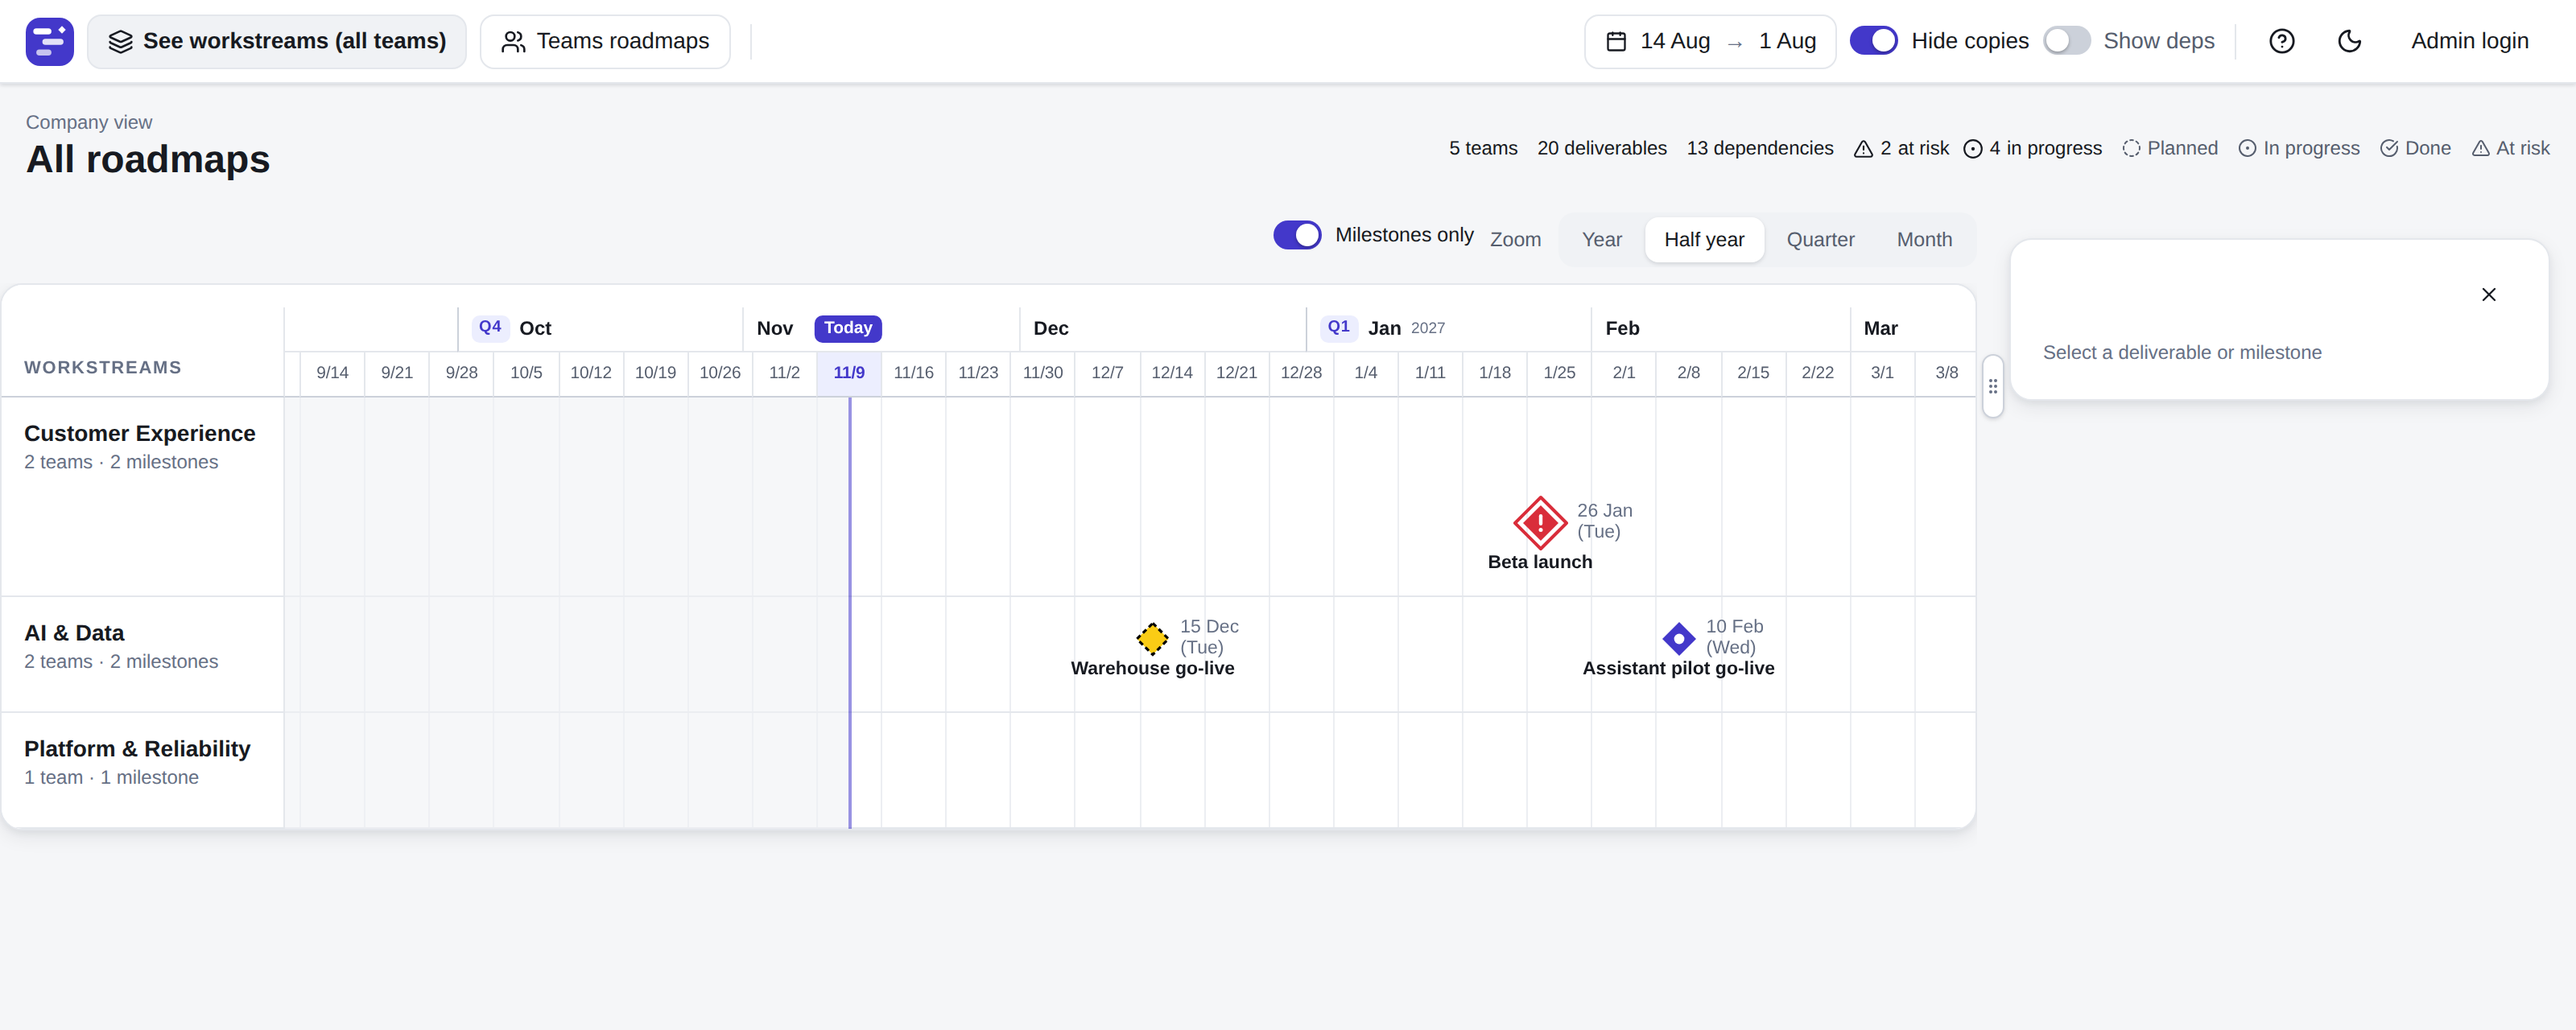
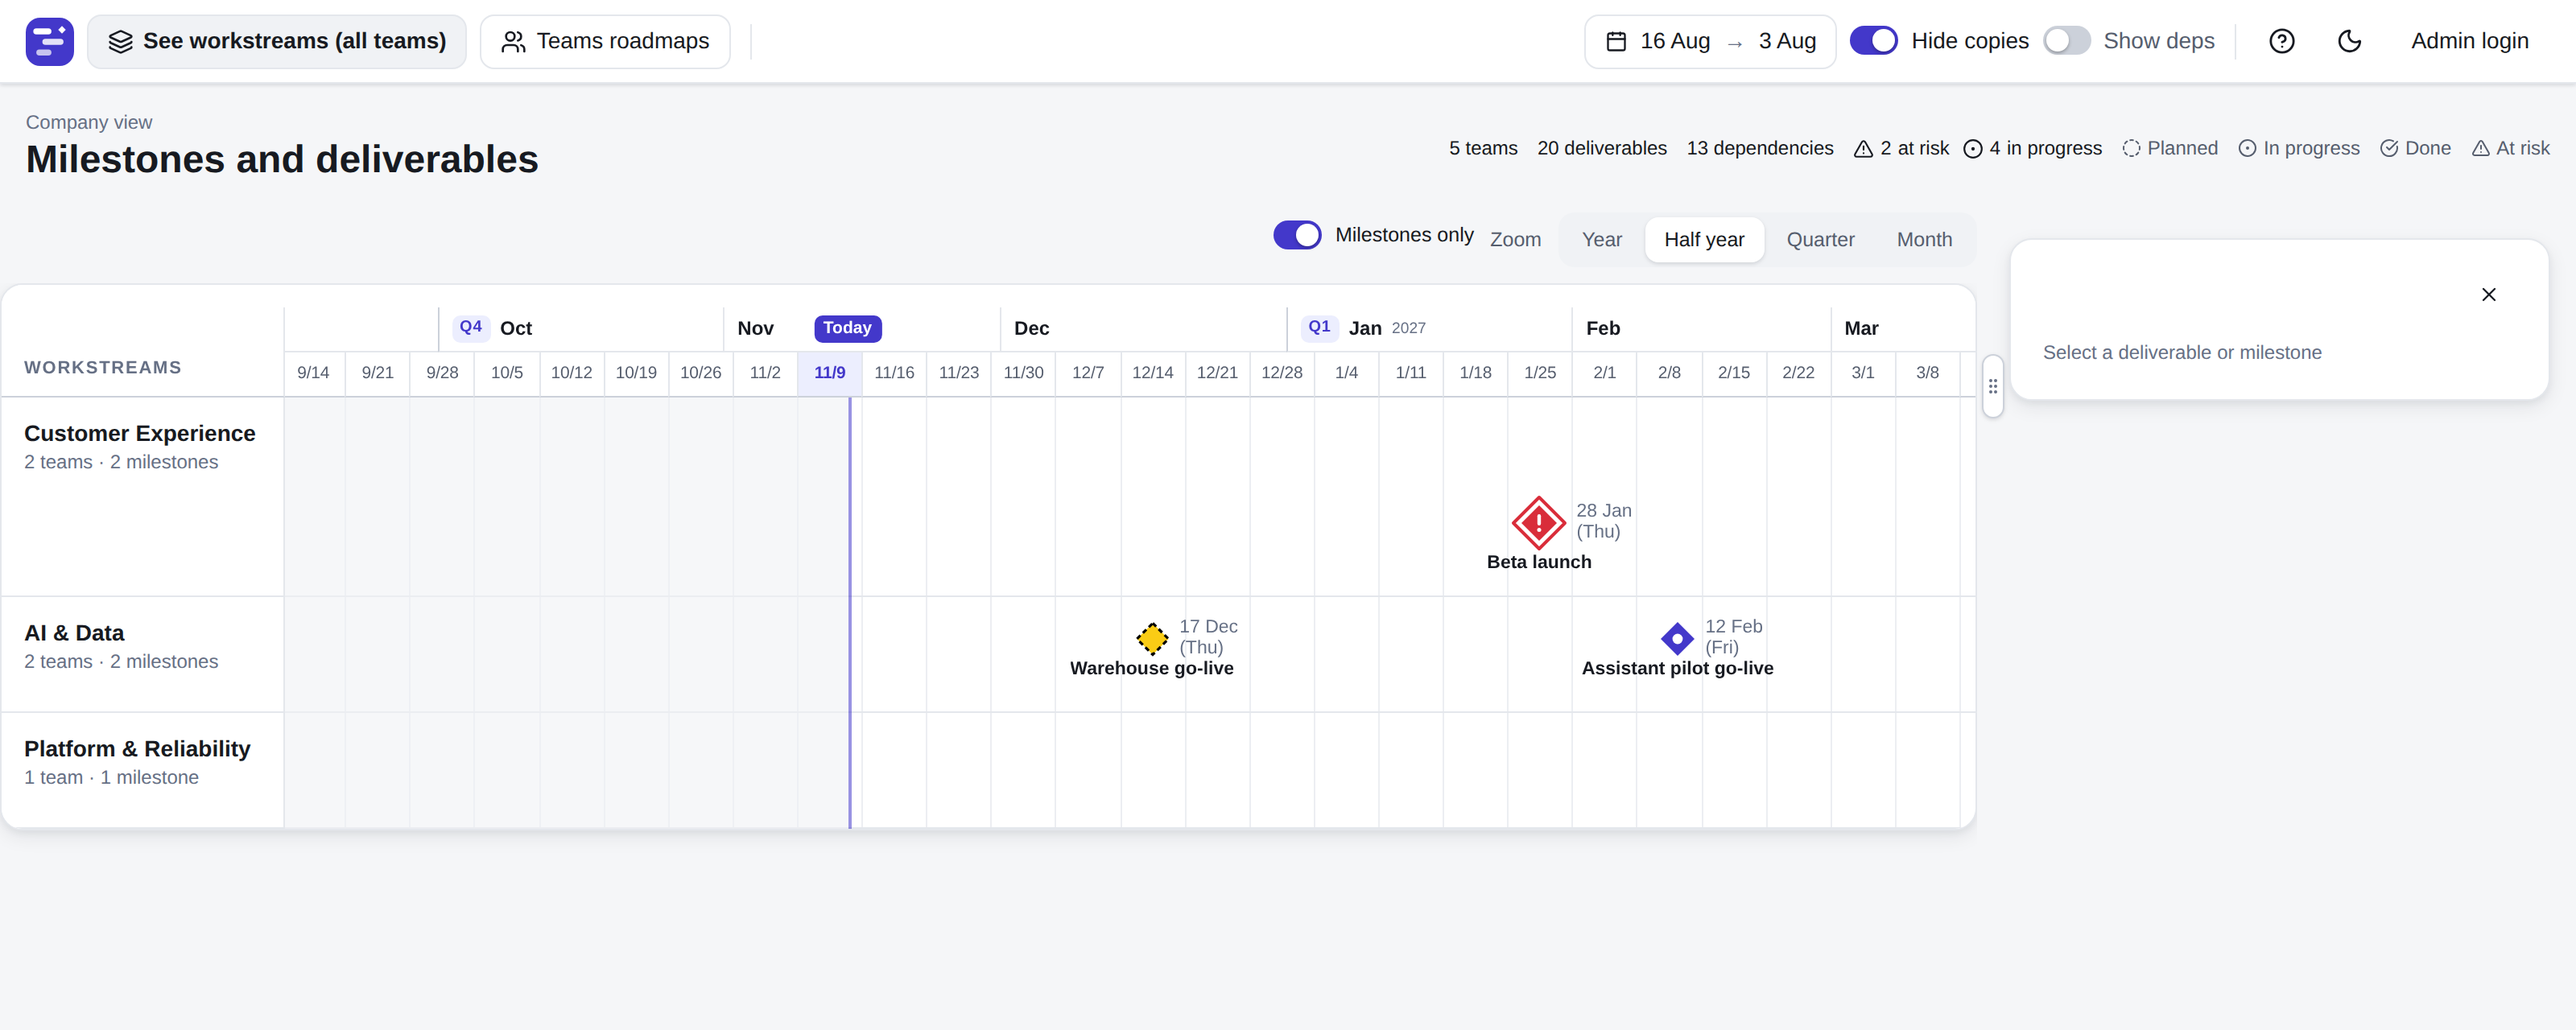
Overlens 1.2.2

diff --git a/web/e2e/24-long-names.spec.ts b/web/e2e/24-long-names.spec.ts
@@ -68,20 +68,22 @@ test('REQ_FE_141 REQ_FE_010 names under narrow bars sit in the gap and touch not
   const { team, roadmap, ws } = await createScene(url)
   const w = ws[0].id
   const row = (n: number) => ({ rows: { [w]: n } })
+  // anchored to the month start, not today: the grid ends at a month's end, and where the last bar falls in it decided whether its name could sit centred
+  const fromMonthStart = (n: number) => isoDay(n - (new Date().getDate() - 1))
   // row 0: a free name, one cut by the next, and one with a milestone after it
-  const free = await createDeliverable(url, roadmap, [w], isoDay(2), isoDay(15), { name: 'Disaster Recovery Drills And More', ...row(0) })
-  const cut = await createDeliverable(url, roadmap, [w], isoDay(90), isoDay(103), { name: 'Regional Failover Rehearsal', ...row(0) })
-  await createDeliverable(url, roadmap, [w], isoDay(116), isoDay(129), { name: 'Annual Compliance Review', ...row(0) }) // about 25 days on: room at any window width
-  await createDeliverable(url, roadmap, [w], isoDay(180), isoDay(193), { name: 'Password Reset Flow', ...row(0) })
-  await createMilestone(url, roadmap, w, isoDay(205), { name: 'Beta launch' })
+  const free = await createDeliverable(url, roadmap, [w], fromMonthStart(2), fromMonthStart(15), { name: 'Disaster Recovery Drills And More', ...row(0) })
+  const cut = await createDeliverable(url, roadmap, [w], fromMonthStart(90), fromMonthStart(103), { name: 'Regional Failover Rehearsal', ...row(0) })
+  await createDeliverable(url, roadmap, [w], fromMonthStart(116), fromMonthStart(129), { name: 'Annual Compliance Review', ...row(0) }) // about 25 days on: room at any window width
+  await createDeliverable(url, roadmap, [w], fromMonthStart(180), fromMonthStart(193), { name: 'Password Reset Flow', ...row(0) })
+  await createMilestone(url, roadmap, w, fromMonthStart(205), { name: 'Beta launch' })
   // alone in the row, with free gap on both sides: its name has no reason not to be exactly centred
-  const lone = await createDeliverable(url, roadmap, [w], isoDay(330), isoDay(343), { name: 'Login Audit', ...row(0) })
+  const lone = await createDeliverable(url, roadmap, [w], fromMonthStart(330), fromMonthStart(343), { name: 'Login Audit', ...row(0) })
   // row 1: a bar right under `free`, whose badge stays clear of that name
-  await createDeliverable(url, roadmap, [w], isoDay(2), isoDay(60), { name: 'Under the first', ...row(1) })
+  await createDeliverable(url, roadmap, [w], fromMonthStart(2), fromMonthStart(60), { name: 'Under the first', ...row(1) })
   // a very short bar right before another, with a bar under it: its name must not land on the next bar's name
-  await createDeliverable(url, roadmap, [w], isoDay(240), isoDay(244), { name: 'Hotfix Window Rehearsal', ...row(0) })
-  await createDeliverable(url, roadmap, [w], isoDay(245), isoDay(258), { name: 'Release Freeze Rehearsal', ...row(0) })
-  await createDeliverable(url, roadmap, [w], isoDay(240), isoDay(300), { name: 'Under the pair', ...row(1) })
+  await createDeliverable(url, roadmap, [w], fromMonthStart(240), fromMonthStart(244), { name: 'Hotfix Window Rehearsal', ...row(0) })
+  await createDeliverable(url, roadmap, [w], fromMonthStart(245), fromMonthStart(258), { name: 'Release Freeze Rehearsal', ...row(0) })
+  await createDeliverable(url, roadmap, [w], fromMonthStart(240), fromMonthStart(300), { name: 'Under the pair', ...row(1) })
 
   const check = async () => {
     await expect(page.locator(`.deliverable[data-deliverable="${free.id}"] .name.under`)).toBeVisible()

diff --git a/web/src/components/AppChrome.tsx b/web/src/components/AppChrome.tsx
@@ -86,7 +86,7 @@ export function TopBar({ variant = 'minimal', teamName, left, right }: { variant
       >
         <Layers size={16} aria-hidden="true" />
         <span className="hidden min-[1440px]:inline">See workstreams (all teams)</span>
-        <span className="min-[1440px]:hidden">All roadmaps</span>
+        <span className="min-[1440px]:hidden">Milestones and deliverables</span>
       </a>
       <a
         href="#/teams"
@@ -98,7 +98,7 @@ export function TopBar({ variant = 'minimal', teamName, left, right }: { variant
       >
         <Users size={16} aria-hidden="true" />
         <span className="hidden min-[1440px]:inline">Teams roadmaps</span>
-        <span className="min-[1440px]:hidden">Team roadmaps</span>
+        <span className="min-[1440px]:hidden">Teams roadmaps</span>
       </a>
       {!minimal && <span className="sep" />}
       {left}

diff --git a/web/src/components/TopBar.test.tsx b/web/src/components/TopBar.test.tsx
@@ -85,10 +85,10 @@ describe('REQ_FE_123 the two mode buttons', () => {
     const t = screen.getByTestId('see-team-roadmaps')
     expect(c).toHaveAttribute('href', '#/')
     expect(c).toHaveTextContent('See workstreams (all teams)')
-    expect(c).toHaveTextContent('All roadmaps')
+    expect(c).toHaveTextContent('Milestones and deliverables')
     expect(t).toHaveAttribute('href', '#/teams')
     expect(t).toHaveTextContent('Teams roadmaps')
-    expect(t).toHaveTextContent('Team roadmaps')
+    expect(t).toHaveTextContent('Teams roadmaps')
     expect(t).toHaveAttribute('aria-current', 'page')
     expect(c).not.toHaveAttribute('aria-current')
   })

diff --git a/web/src/pages/CompanyPage.tsx b/web/src/pages/CompanyPage.tsx
@@ -277,7 +277,7 @@ export function CompanyPage({ mode, traceId, traceKind = 'deliverable', mileston
       <div className="page-head flex items-center gap-4 p-4 flex-wrap">
         <div>
           <div className="eyebrow text-xs text-text-3">Company view</div>
-          <h1 className="text-2xl font-semibold">All roadmaps</h1>
+          <h1 className="text-2xl font-semibold">Milestones and deliverables</h1>
         </div>
         <span className="flex-1" />
         <div className="meta flex items-center gap-3 flex-wrap">

diff --git a/requirements/REQ-FE.md b/requirements/REQ-FE.md
@@ -118,7 +118,7 @@
 - **REQ_FE_120** — In the shared form (panel and edit window) each date shows under it the limit that applies, naming the limiting roadmap item, in US format: "Earliest start Mar 3, 2026 — <name> ends Mar 2, 2026" or "No prerequisite limits the start"; "Latest end Apr 9, 2026 — <name> starts Apr 10, 2026" or "No dependent limits the end". The date inputs carry those limits as their min and max. A date the server refuses for a dependency names the roadmap item the same way, and the dependency picker shows its "ends …" dates in US format.
 - **REQ_FE_121** — In the shared form (and the milestone form): the risk note box is tinted red; the icon tiles are labelled "Icon labels"; unticking the last workstream shows "At least one workstream is required" under the chips (REQ_FE_027) and changes nothing; a link row gives the label one third and the URL two thirds of the width, the label has the placeholder "Label, e.g. Jira epic" and at most 40 characters, and **Add link** puts the focus in the new row's label; Depends on carries the hint "A prerequisite must end before this deliverable starts. Greyed options say why." The milestone form uses the same Depends on hint with "this milestone".
 - **REQ_FE_122** — An admin moves a milestone to another team with "(move)" next to its Team in the milestone form, in the same dialog as a deliverable (REQ_FE_030): it chooses the team and the workstream (an existing one, a new one, or the same-named one) as REQ_API_013 allows; after the move the milestone leaves this roadmap and appears on the destination's, with its date, links and dependencies unchanged, and a refused move shows the server's message in the dialog.
-- **REQ_FE_123** — The top bar shows both mode buttons, side by side next to the logo, on every page: **See workstreams (all teams)** (leads to the company view, `#/`) and **Teams roadmaps** (leads to the team list, `#/teams`). The button for the page you are on is highlighted: the first on the company view, the trace and the Company order page, the second on a team roadmap. On narrow windows the short forms are "All roadmaps" and "Team roadmaps". The logo is a picture only: it is not a link and the bar carries no product name text ("Overlens", REQ_OVR_014). *(Decision 2026-10-17; the name changed 2026-10-22.)*
+- **REQ_FE_123** — The top bar shows both mode buttons, side by side next to the logo, on every page: **See workstreams (all teams)** (leads to the company view, `#/`) and **Teams roadmaps** (leads to the team list, `#/teams`). The button for the page you are on is highlighted: the first on the company view, the trace and the Company order page, the second on a team roadmap. On narrow windows the short forms are "Milestones and deliverables" and "Teams roadmaps". The logo is a picture only: it is not a link and the bar carries no product name text ("Overlens", REQ_OVR_014). *(Decision 2026-10-17; the name changed 2026-10-22.)*
 - **REQ_FE_124** — The description editor (deliverables and milestones) has a toolbar with buttons at least 34 px tall and 18 px icons, grouped and separated: a font choice (Default, Serif, Monospace, Arial, Verdana, Times New Roman); a size choice (12, 14, 16, 18, 20, 24 px; 14 is the default); Bold, Italic, Underline, Strikethrough; Heading; Bullet list, Numbered list; Clear formatting. The button for formatting under the cursor is shown active. Fonts and sizes survive saving and show in the read-only panel.
 - **REQ_FE_125** *(withdrawn — decommissioned 2026-10-11: the company view is read-only for layout, REQ_FE_096)*
 - **REQ_FE_126** *(withdrawn — decommissioned 2026-10-11: see REQ_FE_125)*

diff --git a/README.md b/README.md
@@ -69,7 +69,7 @@ You can also try it on your own computer first, in five minutes. Read the [Insta
 in your browser. It starts with a sample company, so you can look around straight away; to edit, log in as `admin` with
 the password `admin` and change the password.
 
-> **macOS:** version 1.0.0 has not been tested on a Mac yet. The macOS downloads are built the same way as the others and
+> **macOS:** the macOS downloads have not been tested on a Mac yet. They are built the same way as the others and
 > should work; if you try one, please tell us how it went in an [issue](https://github.com/andrejad/overlens/issues).
 
 **On a company server, inside your VPN.** When you want your teams to see it, put the same program on a Linux or Windows

diff --git a/CHANGELOG.md b/CHANGELOG.md
@@ -5,6 +5,12 @@ All notable changes to Overlens are documented here. The format follows
 
 ## [Unreleased]
 
+## [1.2.2] — 2026-11-14
+
+### Changed
+- The company page heading and the short form of the first top-bar button (narrow windows) now read "Milestones and deliverables"; the short form of the second button reads "Teams roadmaps".
+- The README screenshots were retaken.
+
 ## [1.2.1] — 2026-11-12
 
 ### Changed
